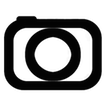
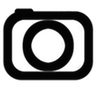
half-way complete tab bar

Changed region(s): [[0.0312, 0.0625, 1.0, 0.875]]

diff --git a/whunted/whunted/Models/WantData/WantData.m b/whunted/whunted/Models/WantData/WantData.m
@@ -34,17 +34,21 @@
         self.itemName           =   wantDataPFObject[PF_ITEM_NAME];
         self.itemDesc           =   wantDataPFObject[PF_ITEM_DESC];
         self.itemCategory       =   wantDataPFObject[PF_ITEM_CATEGORY];
-        
-        
-        self.demandedPrice      =   wantDataPFObject[PF_ITEM_DEMANDED_PRICE];
-        self.paymentMethod      =   wantDataPFObject[PF_ITEM_PAYMENT_METHOD];
-        self.meetingLocation    =   wantDataPFObject[PF_ITEM_MEETING_PLACE];
-        self.referenceURL       =   wantDataPFObject[PF_ITEM_REFERENCE_URL];
+        self.itemOrigins        =   [wantDataPFObject[PF_ITEM_CATEGORY] componentsSeparatedByString:COMMA_CHARACTER];
         self.itemPictureList    =   wantDataPFObject[PF_ITEM_PICTURE_LIST];
         self.itemPicturesNum    =   [wantDataPFObject[PF_ITEM_PICTURES_NUM] integerValue];
+        self.hashTagList        =   [NSArray arrayWithArray:wantDataPFObject[PF_ITEM_HASHTAG_LIST]];
+        self.referenceURL       =   wantDataPFObject[PF_ITEM_REFERENCE_URL];
+        
         self.buyerID            =   wantDataPFObject[PF_ITEM_BUYER_ID];
         self.buyerUsername      =   wantDataPFObject[PF_ITEM_BUYER_USERNAME];
-        self.hashTagList        =   [NSArray arrayWithArray:wantDataPFObject[PF_ITEM_HASHTAG_LIST]];
+        self.demandedPrice      =   wantDataPFObject[PF_ITEM_DEMANDED_PRICE];
+        self.paymentMethod      =   wantDataPFObject[PF_ITEM_PAYMENT_METHOD];
+        
+        self.meetingLocation    =   wantDataPFObject[PF_ITEM_MEETING_PLACE];
+        
+        
+       
         self.sellersNum         =   [wantDataPFObject[PF_ITEM_SELLERS_NUM] integerValue];
         self.likesNum           =   [wantDataPFObject[PF_ITEM_LIKES_NUM] integerValue];
         self.createdDate        =   wantDataPFObject.createdAt;

diff --git a/whunted/whunted/Controllers/MainController/MainViewController.m b/whunted/whunted/Controllers/MainController/MainViewController.m
@@ -64,7 +64,7 @@
         _uploadingVC = [[UploadingViewController alloc] init];
         [uploadingNavController setViewControllers:@[_uploadingVC]];
         [uploadingNavController.tabBarItem setImage:[UIImage imageNamed:@"camera_tab_icon.png"]];
-        uploadingNavController.tabBarItem.imageInsets = UIEdgeInsetsMake(5, 0, -5, 0);
+        uploadingNavController.tabBarItem.imageInsets = UIEdgeInsetsMake(7, 0, -7, 0);
         uploadingNavController.view.tag = kUPLOAD_TAB_BAR;
         
         UINavigationController *chattingNavController = [[UINavigationController alloc] init];
